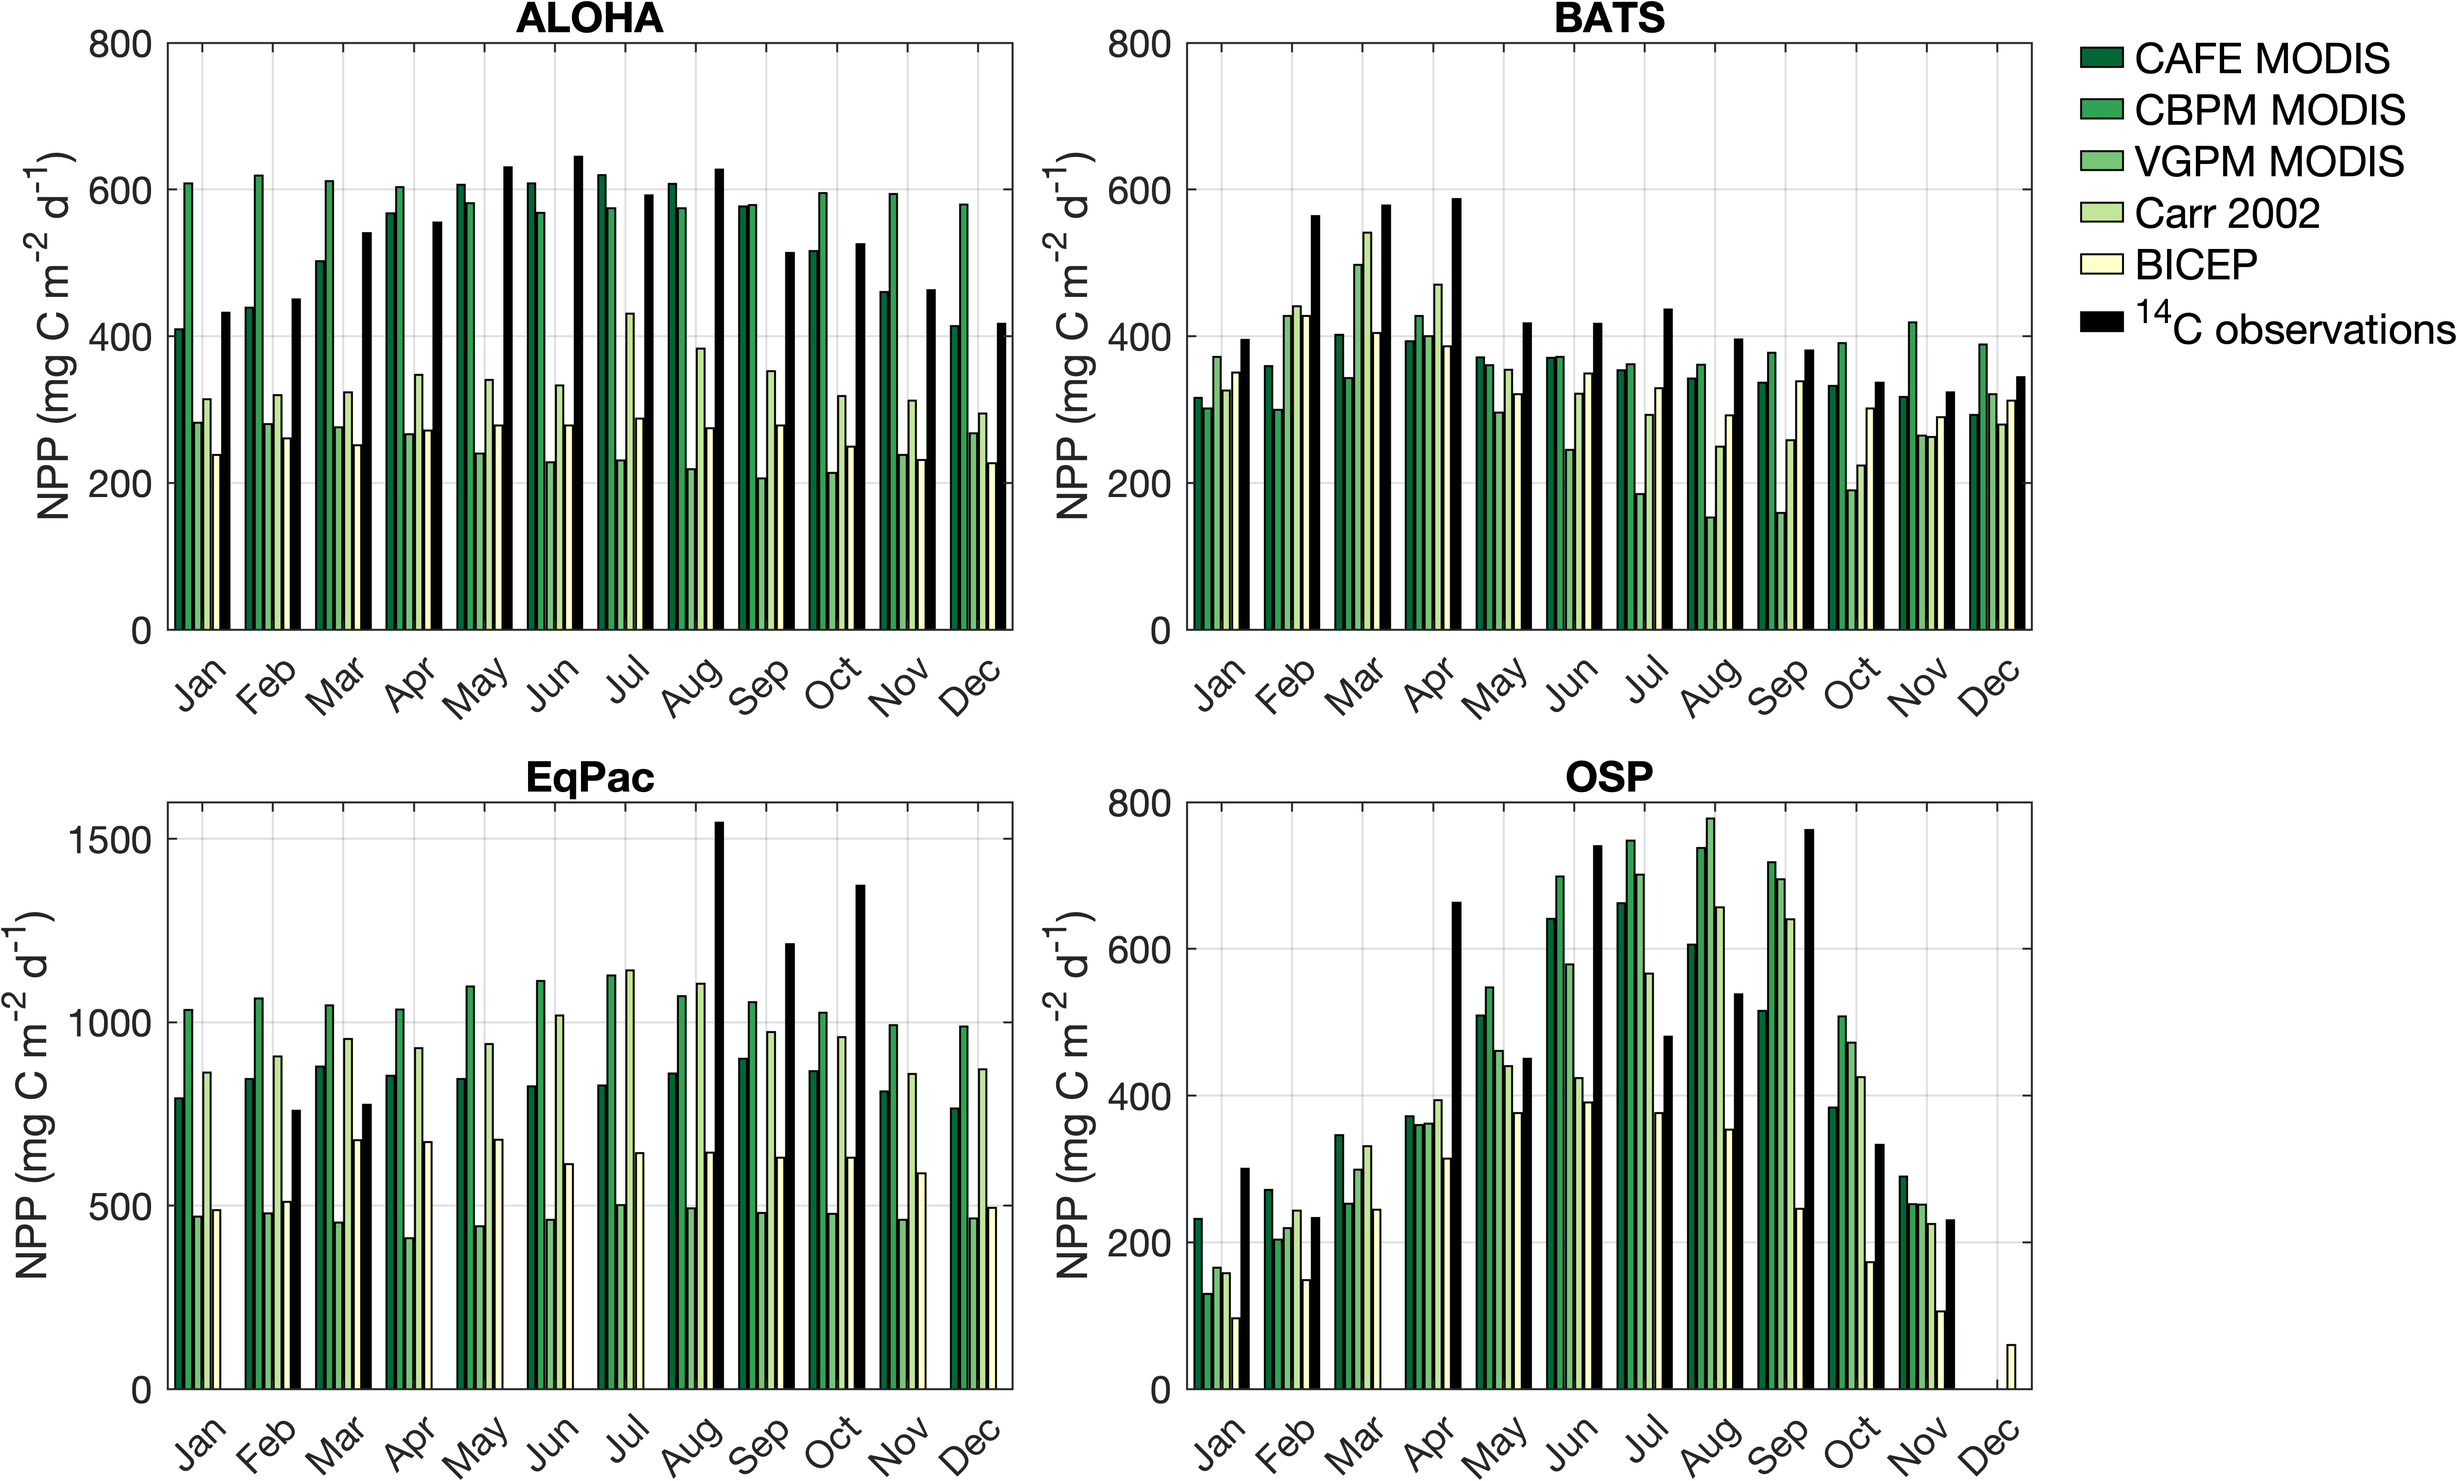
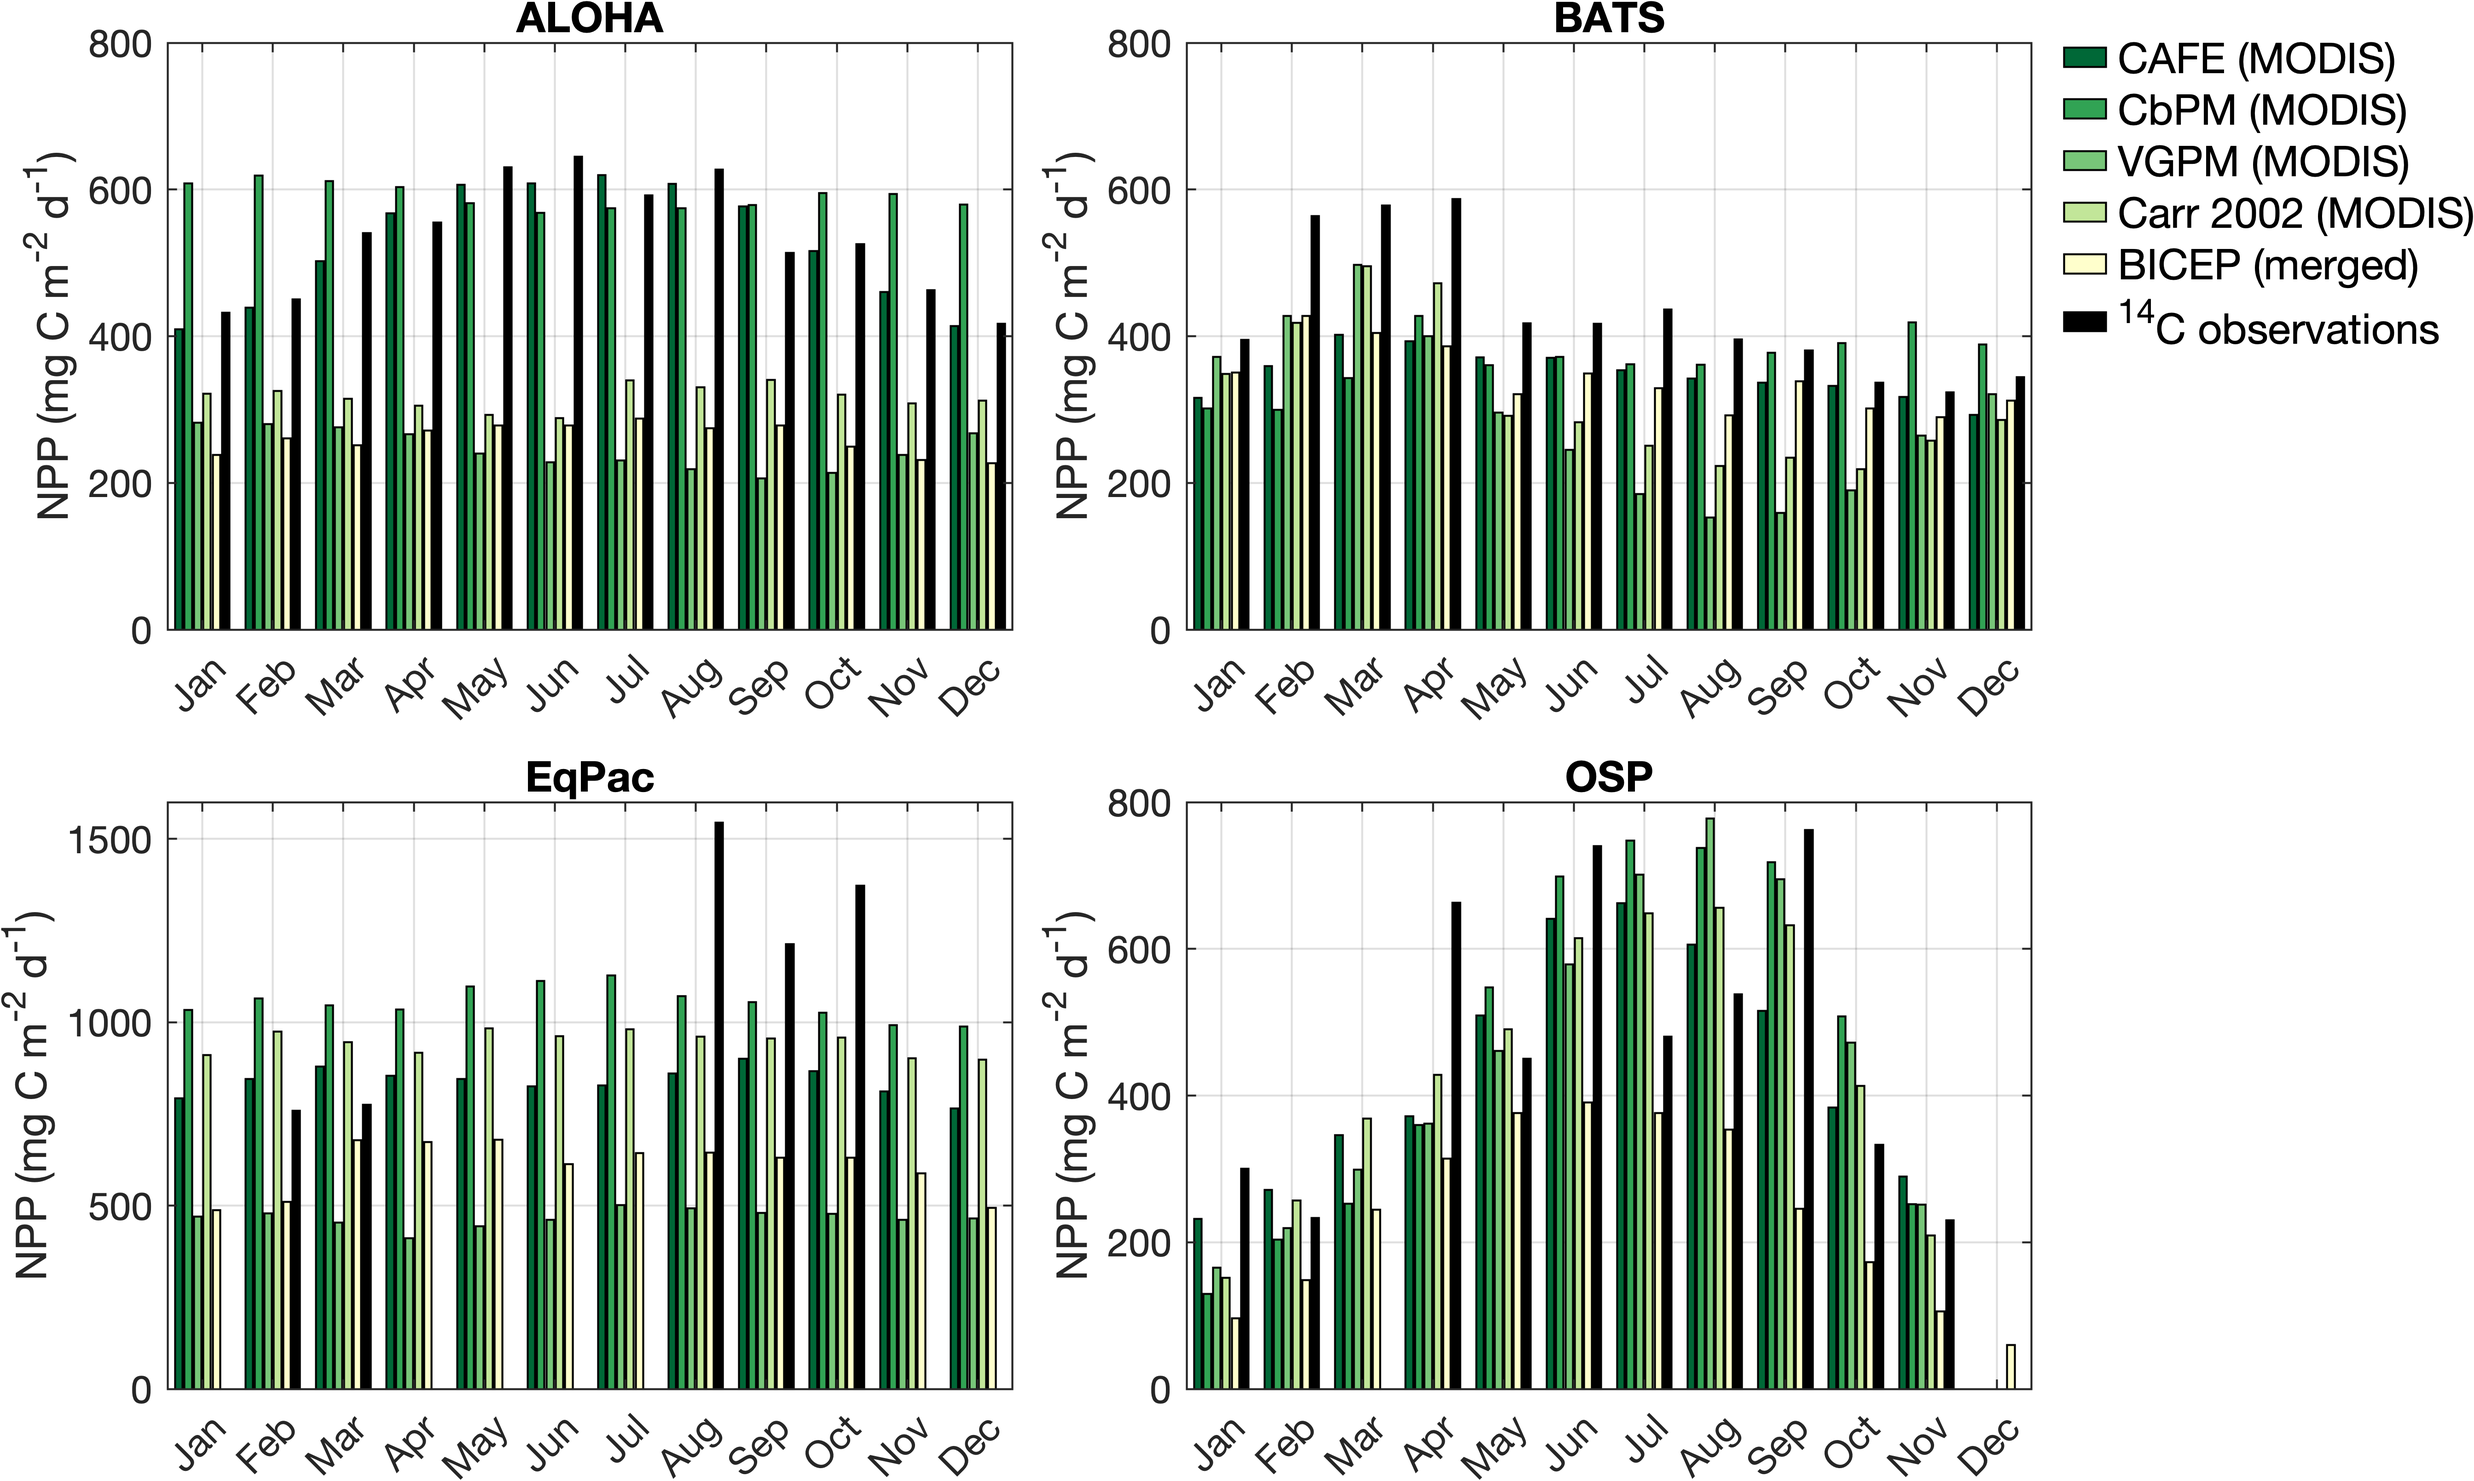
Code updates

diff --git a/code/main.m b/code/main.m
@@ -8,8 +8,8 @@
 % evaluates global NPP distribution for the five models and calculates    %
 % integrated global stocks using two different interpolation methods.     %
 %                                                                         %
-% The workflow is divided into the following 8 sections:                  %                                   %
-%   Section 1 - Presets.                                                  %
+% The workflow is divided into the following 8 sections:                  %                                  
+%   Section 1 - Presets                                                   %
 %   Section 2 - Calculation of globally integrated NPP stocks             %
 %   Section 3 - Visualisation of monthly modelled NPP                     %
 %   Section 4 - Visualisation of annual modelled NPP                      %
@@ -42,9 +42,9 @@ addpath(genpath('./code/'));
 filenameInputModelledNpp = {'npp_cafe_modis',...                 
                             'npp_cbpm_modis',...
                             'npp_vgpm_modis',...
-                            'npp_carr2002_seawifs_pathfinder',...
+                            'npp_carr2002_aquamodis_pathfinder_zeuc02',...
                             'npp_bicep'};                  
-filenameInputInsituNpp = 'npp_c14.xls'; % 14C data at study locations
+filenameInputInsituNpp    = 'npp_c14.xls'; % 14C data at study locations
 
 % Output filenames
 filenameOutputModelledNppProcessed   = 'npp_global_modelled.mat';
@@ -53,7 +53,7 @@ filenameOutputLatexTableMatchupStats = 'npp_matchup_stats.tex';
 
 % Naming conventions
 labelLocations = {'ALOHA','BATS','EqPac','OSP'}; % study locations, notice names are the same as in the input file 'npp_c14.xls' 
-labelModels = {'CAFE MODIS','CBPM MODIS','VGPM MODIS','Carr 2002','BICEP'};
+labelModels = {'CAFE (MODIS)','CbPM (MODIS)','VGPM (MODIS)','Carr 2002 (MODIS)','BICEP (merged)'};
 
 % Build study location information
 locationInformation = array2table(NaN(numel(labelLocations), 2), ...

diff --git a/data/processed/npp_matchup_stats.tex b/data/processed/npp_matchup_stats.tex
@@ -4,7 +4,7 @@
 \toprule
 & & ALOHA & BATS & EqPac & OSP \\
 \midrule
-CAFE MODIS & slope & 0.94 & 0.28 & 0.01 &  \\
+CAFE (MODIS) & slope & 0.94 & 0.28 & 0.01 &  \\
 0.54 \\
 & $r$ & 0.94 & 0.82 & 0.13 &  \\
 0.67 \\
@@ -17,7 +17,7 @@ CAFE MODIS & slope & 0.94 & 0.28 & 0.01 &  \\
 & MAPE & 4.1 & 17 & 26 &  \\
 23 \\
 \cmidrule(lr){1-6}
-CBPM MODIS & slope & -0.12 & -0.11 & -0.00 &  \\
+CbPM (MODIS) & slope & -0.12 & -0.11 & -0.00 &  \\
 0.83 \\
 & $r$ & -0.56 & -0.26 & -0.03 &  \\
 0.70 \\
@@ -30,7 +30,7 @@ CBPM MODIS & slope & -0.12 & -0.11 & -0.00 &  \\
 & MAPE & 19 & 21 & 29 &  \\
 30 \\
 \cmidrule(lr){1-6}
-VGPM MODIS & slope & -0.18 & 0.86 & 0.03 &  \\
+VGPM (MODIS) & slope & -0.18 & 0.86 & 0.03 &  \\
 0.72 \\
 & $r$ & -0.53 & 0.72 & 0.70 &  \\
 0.67 \\
@@ -43,20 +43,20 @@ VGPM MODIS & slope & -0.18 & 0.86 & 0.03 &  \\
 & MAPE & 52 & 33 & 54 &  \\
 27 \\
 \cmidrule(lr){1-6}
-Carr 2002 & slope & 0.28 & 0.98 & 0.16 &  \\
-0.58 \\
-& $r$ & 0.62 & 0.93 & 0.79 &  \\
-0.68 \\
-& $r^2$ & 0.38 & 0.87 & 0.62 &  \\
-0.46 \\
-& RMSE & 203 & 102 & 308 &  \\
-154 \\
-& MAE & 194 & 96 & 284 &  \\
-117 \\
-& MAPE & 36 & 23 & 24 &  \\
-22 \\
+Carr 2002 (MODIS) & slope & -0.05 & 0.92 & -0.00 &  \\
+0.74 \\
+& $r$ & -0.26 & 0.89 & -0.05 &  \\
+0.78 \\
+& $r^2$ & 0.07 & 0.79 & 0.00 &  \\
+0.60 \\
+& RMSE & 231 & 124 & 362 &  \\
+127 \\
+& MAE & 216 & 116 & 328 &  \\
+109 \\
+& MAPE & 39 & 28 & 28 &  \\
+23 \\
 \cmidrule(lr){1-6}
-BICEP & slope & 0.21 & 0.42 & 0.07 &  \\
+BICEP (merged) & slope & 0.21 & 0.42 & 0.07 &  \\
 0.41 \\
 & $r$ & 0.81 & 0.90 & 0.37 &  \\
 0.70 \\

diff --git a/resources/internal/timeInterpolationCustom.m b/resources/internal/timeInterpolationCustom.m
@@ -1,6 +1,6 @@
-function qArray = cleverTimeInterpolation(array,t)
+function qArray = timeInterpolationCustom(array,t)
 
-% CLEVERTIMEINTERPOLATION Fills temporal gaps in a 3D array using multiple 
+% TIMEINTERPOLATIONCUSTOM Fills temporal gaps in a 3D array using multiple 
 % interpolation strategies. This function performs multi-step interpolation 
 % to fill gaps in a 3D array (lat x lon x time). It applies three 
 % interpolation rounds: (1) interpolation for isolated gaps (zeros between 
@@ -52,13 +52,13 @@ for iRow = 1:size(array,1)
 
         % Perform interpolation only if at least two non-zero values exist
         if sum(timeSeries > 0) > 1 
-             %%
+ 
             % First round: interpolate isolated gaps
             timeSeries = interpolateIsolatedGaps(timeSeries, t);
-%%
+
             % Second round: interpolate consecutive gaps bounded by valid data
             timeSeries = interpolateBoundedGaps(timeSeries, t);
-%%
+
             % Third round: handle gaps at the edges using flip-based ("capicúa") interpolation
             timeSeries = interpolateEdgeGaps(timeSeries);
  
@@ -79,7 +79,7 @@ end
 qArray(qArray<0) = 0;
 qArray(qArray==0) = NaN; 
 
-end % cleverTimeInterpolation
+end % timeInterpolationCustom
 
 % =========================================================================
 %%

diff --git a/code/calculateMatchupStatistics.m b/code/calculateMatchupStatistics.m
@@ -93,7 +93,7 @@ function generateLatexOutput(matchupStats,stationLabels,modelLabels,statLabels,.
 
     % Call a custom function to generate the LaTeX table
     generateLatexTable(misfitDataTransposed,stationLabels,modelLabels,statLabels, ...
-        fullfile('.','data','interim',filenameOutputLatexTableStats));
+        fullfile('.','data','processed',filenameOutputLatexTableStats));
     
 end % generateLatexOutput
 
@@ -122,7 +122,7 @@ function generateCsvOutput(nppData,filenameOutputCsvTable,labelModels,labelLocat
         num2cell(nppDataReshaped)]]);
     
     % Write table to CSV without column names
-    writetable(csvContent,fullfile('.','data','interim',filenameOutputCsvTable),...
+    writetable(csvContent,fullfile('.','data','processed',filenameOutputCsvTable),...
         'WriteVariableNames',false,'Delimiter',',');
 
 end % generateCsvOutput
@@ -139,7 +139,6 @@ function generateLatexTable(data,labelStations,labelModelNames,...
 
     % Open file for writing
     fid = fopen(pathToFile, 'w');
-
     fprintf(fid, '\\begin{table}[h]\n');
     fprintf(fid, '\\centering\n');
     fprintf(fid, '\\begin{tabular}{%s}\n', repmat('c', 1, size(data, 2)));

diff --git a/resources/internal/timeInterpolationStandard.m b/resources/internal/timeInterpolationStandard.m
@@ -1,6 +1,6 @@
-function qArray = standardTimeInterpolation(array,t)
+function qArray = timeInterpolationStandard(array,t)
 
-% STANDARDTIMEINTERPOLATION Fills temporal gaps in a 3D array using 
+% TIMEINTERPOLATIONSTANDARD Fills temporal gaps in a 3D array using 
 % interpolation. This function fills temporal gaps (NaN values) in a 3D 
 % array of dimensions lat x lon x time by interpolating over the time 
 % dimension. Interpolation is applied only for grid cells with at least 2 
@@ -61,4 +61,4 @@ end
 
 qArray(qArray == 0) = NaN;
 
-end % standardTimeInterpolation
+end % timeInterpolationStandard

diff --git a/code/plotBarChartInsituVsModelled.m b/code/plotBarChartInsituVsModelled.m
@@ -44,7 +44,7 @@ function plotBarChartInsituVsModelled(combinedModelAndObsNpp,labelModels,labelLo
         % Add legend for models
         if (iLoc == 2)
             lg = legend(legendLabels,'NumColumns', 1,'Location','northeastoutside');
-            lg.Position(1) = 0.83; lg.Position(2) = 0.72;
+            lg.Position(1) = 0.825; lg.Position(2) = 0.72;
             lg.ItemTokenSize = [11,5];
             lg.FontSize = 11;
             set(lg,'Box','off');

diff --git a/README.md b/README.md
@@ -1,6 +1,6 @@
-## Comparison of Net Primary Production (NPP) Products with In Situ Data from Time-Series Locations
+## Comparison of Net Primary Production (NPP) Models with In Situ Observations at four Data-Rich, Time-Series Locations
 
-This repository contains a collection of MATLAB scripts developed to evaluate and compare net primary production (NPP) models against *in situ* data. The scripts process, format and visualise freely-available NPP products for the global ocean and compare them with *in situ* oceanographic data from time-series stations using the <sup>14</sup>C technique, enabling the identification of the most optimal model based on this comparison. The workflow addresses the often-overlooked task of systematically assessing multiple existing biogeochemical forcing products for ocean models.
+This repository contains a collection of MATLAB scripts developed to evaluate and compare net primary production (NPP) models against *in situ* data. The scripts process, format and visualise freely-available NPP products for the global ocean and compare them with *in situ* oceanographic data from four time-series locations using the <sup>14</sup>C technique, enabling the identification of the most optimal model based on this comparison. The workflow addresses the often-overlooked task of systematically assessing multiple existing biogeochemical products used for forcing/calibrating/validating ocean models.
 
 The analysed NPP datasets include: 
 - Carbon, Absorption, and Fluorescence Euphotic-resolving ([**CAFE**](http://orca.science.oregonstate.edu/1080.by.2160.monthly.hdf.cafe.m.php)) model.
@@ -28,9 +28,13 @@ To use the content of this repository, ensure you have the following.
     - `./internal/`: custom MATLAB functions generated specifically for calculating and plotting (*provided*).
 - `./figures/`: figures generated from processed data (*provided*).
 
+## Data Sources
+
+The NPP datasets used in this repository are sourced from the following open-access resources:
+
 ## Obtaining Raw Data
 
-Raw NPP model data were obtained as `.nc` files from the repositories corresponding to the five models listed above. These files were then processed using scripts in in this related [repository](https://github.com/annarufas/ocean-data-lab) (not included here due to size constraints), resulting in the generation of the following five `.mat` files: `npp_cafe_modis.mat`, `npp_cbpm_modis.mat`, `npp_vgpm_modis.mat`, `npp_carr2002_seawifs_pathfinder.mat`, `npp_bicep.mat`. Once generated, please place them under the `./data/raw/` directory.
+Raw NPP model data were obtained as `.nc` files from the repositories corresponding to the five models listed above. These files were then processed using scripts in in this related [repository](https://github.com/annarufas/ocean-data-lab) (not included here due to size constraints), resulting in the generation of the following five `.mat` files: `npp_cafe_modis.mat`, `npp_cbpm_modis.mat`, `npp_vgpm_modis.mat`, `npp_carr2002_aquamodis_pathfinder_zeuc02.mat`, `npp_bicep.mat`. Once generated, please place them under the `./data/raw/` directory.
 
 ## MATLAB Scripts
 
@@ -48,9 +52,9 @@ Raw NPP model data were obtained as `.nc` files from the repositories correspond
 ## Reproducibility
 
 The provided scripts perform a matchup analysis using *in situ* data from the following study sites:
+- US JGOFS Equatorial Pacific process study experimental site (EqPac), in the central equatorial Pacific upwelling system (–2 to 2ºN, 140ºW).
 - Hawaii Ocean Time-series (HOT) station ALOHA, in the subtropical NE Pacific (22.45ºN, 158ºW).
 - Bermuda Atlantic Time-Series (BATS) study site, in the subtropical NW Atlantic (31.6ºN, 64.2ºW).
-- US JGOFS Equatorial Pacific process study experimental site (EqPac), in the central equatorial Pacific upwelling system (–2 to 2ºN, 140ºW).
 - Ocean Station Papa (OSP), in the HNLC region of the subpolar NE Pacific (50ºN, 145ºW).
 
 ## Acknowledgments
